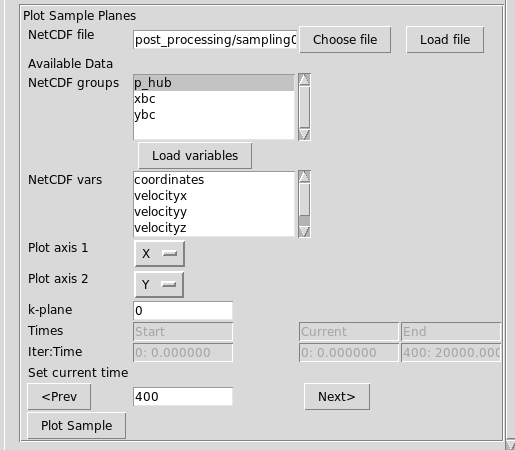
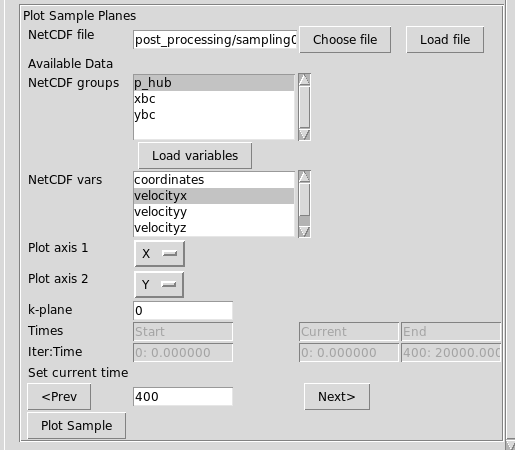
Update tutorial2 doc

Changed region(s): [[0.2485, 0.4044, 0.5903, 0.4667]]

diff --git a/docs/tutorial2/make_tutorial2postpro.py b/docs/tutorial2/make_tutorial2postpro.py
@@ -197,6 +197,7 @@ if savefigs:
     screenshot.Xvfb_screenshot(mdvar['img_postpro_samplefile2'], 
                                crop=(0, 350, 515, scrheight))
 
+case.inputvars['samplingprobe_variables'].tkentry.selection_set(1)
 SETINPUT(mdvar, case, 'samplingprobe_plotaxis1', 'X')
 SETINPUT(mdvar, case, 'samplingprobe_plotaxis2', 'Y')
 SETINPUT(mdvar, case, 'samplingprobe_plottimeindex', 400)
@@ -207,7 +208,6 @@ if savefigs:
 
 # -- Create the plot --
 levels = 41 #np.linspace(0,8,41)
-#fig, (ax1, ax2) = plt.subplots(1,2, figsize=(6,5), gridspec_kw={'width_ratios': [1, 0.05]}, dpi=150)
 from matplotlib import cm
 fig, ax = plt.subplots(figsize=(6,5), facecolor='w', dpi=150)
 im1 = case.plotSamplePlane('p_hub', 'velocityx', 400, 0, 'X','Y',

diff --git a/docs/tutorial2/tutorial2guipostpro_template.md b/docs/tutorial2/tutorial2guipostpro_template.md
@@ -60,6 +60,17 @@ and hit **[Load file]**:
 
 ![{img_postpro_samplefile2}]({img_postpro_samplefile2})
 
-![{img_postpro_samplefile2}]({img_postpro_samplefile3})
+| Parameter        | value                         |
+| ---              | ---                           |
+| NetCDF vars      | `velocityx`                   |
+| Plot axis 1      | {samplingprobe_plotaxis1}     |
+| Plot axis 2      | {samplingprobe_plotaxis2}     |
+| k-plane          | 0                             |
+| Set current time | {samplingprobe_plottimeindex} |
+
+![{img_postpro_samplefile3}]({img_postpro_samplefile3})
+
+Then press the **[Plot sample]** button, and it should generate the
+figure below:
 
 ![{img_postpro_phub_u}]({img_postpro_phub_u})

diff --git a/docs/tutorial2/tutorial2guipostpro.md b/docs/tutorial2/tutorial2guipostpro.md
@@ -71,6 +71,17 @@ and hit **[Load file]**:
 
 ![images/postpro_samplefile2.png](images/postpro_samplefile2.png)
 
-![images/postpro_samplefile2.png](images/postpro_samplefile3.png)
+| Parameter        | value                         |
+| ---              | ---                           |
+| NetCDF vars      | `velocityx`                   |
+| Plot axis 1      | X     |
+| Plot axis 2      | Y     |
+| k-plane          | 0                             |
+| Set current time | 400 |
+
+![images/postpro_samplefile3.png](images/postpro_samplefile3.png)
+
+Then press the **[Plot sample]** button, and it should generate the
+figure below:
 
 ![images/postpro_phub_u.png](images/postpro_phub_u.png)
